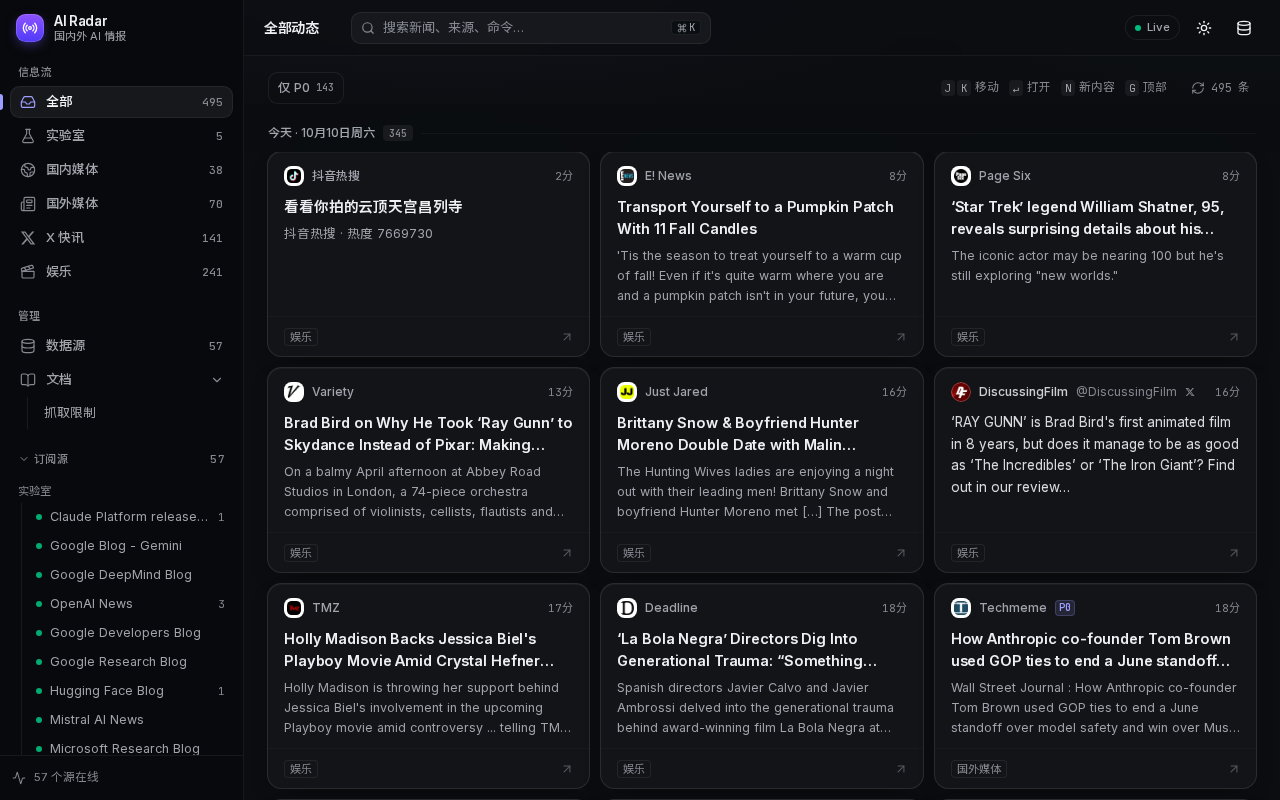
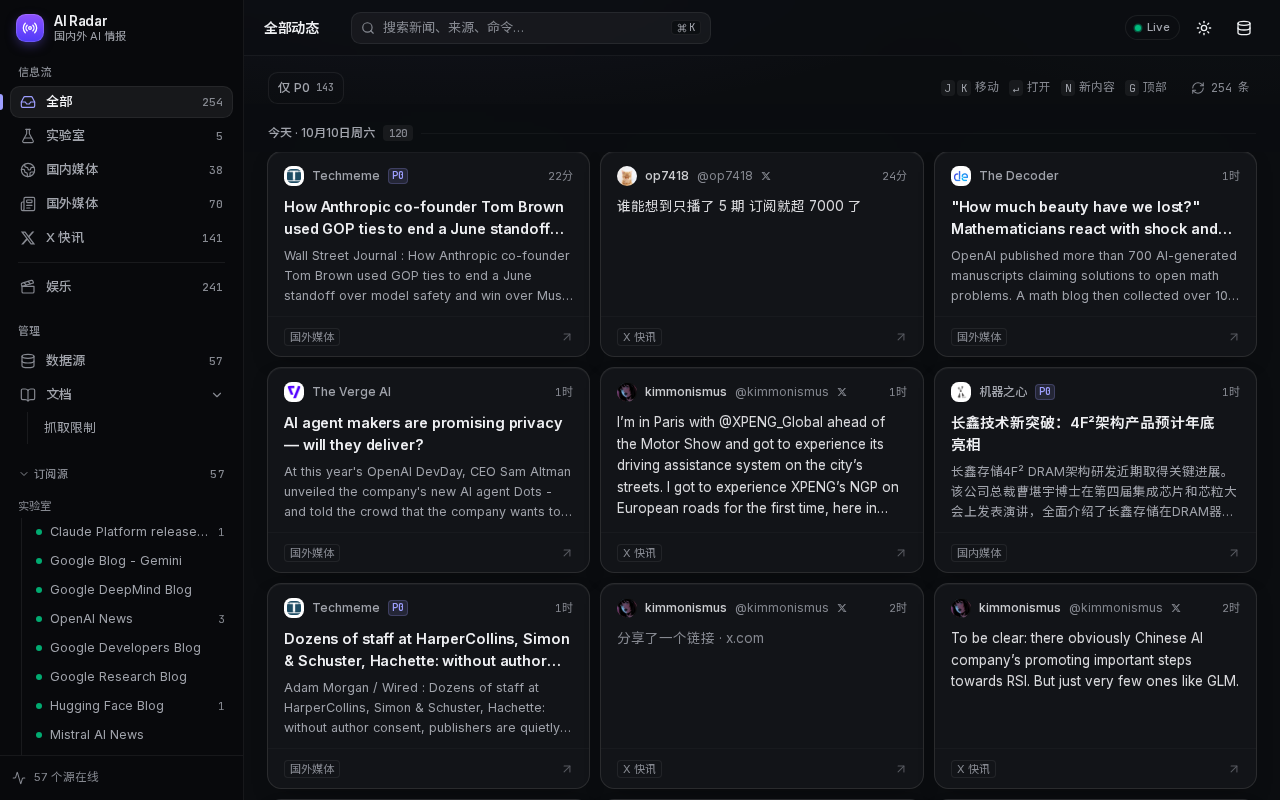
feat: keep 娱乐 out of 全部

diff --git a/src/components/app-shell.tsx b/src/components/app-shell.tsx
@@ -21,7 +21,7 @@ import { DOCS, docHref } from "@/lib/docs-registry";
 import { type Filters, countOf, parseFilters, toQuery } from "./filters";
 import { cn } from "@/lib/utils";
 import type { ItemOut } from "@/lib/types";
-import { SECTIONS, type SectionKey, type SourceRow, ago, api, bj, bjFull, dekText, handleOf, secZh, sectionOf, srcName, xText, REG, CAT } from "./common";
+import { SECTIONS, inAll, type SectionKey, type SourceRow, ago, api, bj, bjFull, dekText, handleOf, secZh, sectionOf, srcName, xText, REG, CAT } from "./common";
 import { SourceAvatar } from "./source-avatar";
 import { useFullItem } from "./item-preview";
 
@@ -116,7 +116,7 @@ function SidebarBody({ onNavigate }: { onNavigate?: () => void }) {
   const active = sources.filter((s) => s.enabled && s.supported);
   const feed = path === "/";
   const count = (section: Filters["section"]) => facet.length ? countOf(facet, { section, source: null, p0: f.p0 })
-    : active.filter((s) => !section || sectionOf({ ...s, is_x: s.type.startsWith("x") }) === section).reduce((a, s) => a + s.item_count, 0);
+    : active.filter((s) => { const k = sectionOf({ ...s, is_x: s.type.startsWith("x") }); return section ? k === section : inAll(k); }).reduce((a, s) => a + s.item_count, 0);
   const go = (p: Partial<Filters>) => { navigate({ section: "", source: null, ...p }); onNavigate?.(); };
   const on = (section: Filters["section"]) => feed && f.source == null && f.section === section;
   const errs = active.filter((s) => s.last_error).length;
@@ -135,7 +135,10 @@ function SidebarBody({ onNavigate }: { onNavigate?: () => void }) {
         <div className="space-y-0.5 px-2.5 pb-3">
           <SectionLabel first>信息流</SectionLabel>
           <NavItem active={on("")} icon={Inbox} label="全部" count={count("")} onClick={() => go({})} />
-          {SECTIONS.map((s) => <NavItem key={s.key} active={on(s.key)} icon={SEC_ICON[s.key]} label={s.zh} count={count(s.key)} onClick={() => go({ section: s.key })} />)}
+          {SECTIONS.filter((s) => inAll(s.key)).map((s) => <NavItem key={s.key} active={on(s.key)} icon={SEC_ICON[s.key]} label={s.zh} count={count(s.key)} onClick={() => go({ section: s.key })} />)}
+          {/* sections outside 全部 (e.g. 娱乐) sit below a divider */}
+          <div className="mx-2 my-2 h-px bg-border" role="separator" title="不计入「全部」" />
+          {SECTIONS.filter((s) => !inAll(s.key)).map((s) => <NavItem key={s.key} active={on(s.key)} icon={SEC_ICON[s.key]} label={s.zh} count={count(s.key)} onClick={() => go({ section: s.key })} />)}
           <SectionLabel>管理</SectionLabel>
           <NavItem active={path === "/sources"} icon={Database} label="数据源" count={active.length} onClick={() => { router.push("/sources"); onNavigate?.(); }} />
           <DocsGroup path={path} onGo={(h) => { router.push(h); onNavigate?.(); }} />
@@ -183,7 +186,11 @@ function Palette({ open, onOpenChange }: { open: boolean; onOpenChange: (b: bool
   const [hits, setHits] = useState<ItemOut[]>([]);
   useEffect(() => {
     if (!open) return;
-    const t = setTimeout(async () => setHits(await api<ItemOut[]>(`/api/items?limit=12${q.trim() ? `&q=${encodeURIComponent(q.trim())}` : ""}`)), 150);
+    const t = setTimeout(async () => {
+      // "最新" (no query) mirrors 全部 and skips 娱乐; a real search may still hit 娱乐 items (labelled)
+      const r = await api<ItemOut[]>(`/api/items?limit=${q.trim() ? 12 : 40}${q.trim() ? `&q=${encodeURIComponent(q.trim())}` : ""}`);
+      setHits(q.trim() ? r : r.filter((it) => inAll(sectionOf(it))).slice(0, 12));
+    }, 150);
     return () => clearTimeout(t);
   }, [q, open]);
   const run = (fn: () => void) => { onOpenChange(false); setQ(""); fn(); };
@@ -200,6 +207,7 @@ function Palette({ open, onOpenChange }: { open: boolean; onOpenChange: (b: bool
                 <CommandItem key={it.id} value={`item-${it.id}`} onSelect={() => run(() => setOpen(it))}>
                   <SourceAvatar name={it.source} username={it.is_x ? handleOf(it) : null} homepage={it.homepage} url={it.url} x={!!it.is_x} className="size-5" />
                   <span className="truncate">{it.is_x ? xText(it) : it.title}</span>
+                  {!inAll(sectionOf(it)) && <span className="shrink-0 rounded-[4px] px-1.5 text-[11px] leading-[18px] text-muted-foreground shadow-[inset_0_0_0_1px_var(--border)]">{secZh(sectionOf(it))}</span>}
                   <CommandShortcut className="whitespace-nowrap tracking-normal">{ago(it.published, true)}</CommandShortcut>
                 </CommandItem>
               ))}

diff --git a/src/components/filters.ts b/src/components/filters.ts
@@ -2,7 +2,7 @@
 //   view = "" (全部) | an exclusive section (lab/cn/dev/media/x — every item is in exactly one, all X posts are "x") | a single source.
 // Plus an optional P0-only toggle. State lives in the URL: /?section=cn | /?section=x | /?source=12 [&p0=1].
 import type { ItemOut } from "@/lib/types";
-import { type SectionKey, SECTIONS, sectionOf } from "./common";
+import { type SectionKey, SECTIONS, inAll, sectionOf } from "./common";
 
 export type View = "" | SectionKey;
 export type Filters = { section: View; source: number | null; p0: boolean };
@@ -10,7 +10,7 @@ export const EMPTY: Filters = { section: "", source: null, p0: false };
 
 export function passes(it: ItemOut, f: Filters) {
   if (f.source != null) { if (it.source_id !== f.source) return false; }
-  else if (f.section && sectionOf(it) !== f.section) return false;
+  else if (f.section ? sectionOf(it) !== f.section : !inAll(sectionOf(it))) return false; // 全部 skips includeInAll:false sections
   if (f.p0 && it.priority !== "P0") return false;
   return true;
 }

diff --git a/src/components/common.ts b/src/components/common.ts
@@ -8,8 +8,10 @@ export const SECTIONS = [
   { key: "cn", zh: "国内媒体", en: "China media" },
   { key: "media", zh: "国外媒体", en: "Global media" },
   { key: "x", zh: "X 快讯", en: "X" },
-  { key: "ent", zh: "娱乐", en: "Entertainment" },
+  { key: "ent", zh: "娱乐", en: "Entertainment", includeInAll: false },
 ] as const;
+// includeInAll: false -> the section only shows in its own view; 全部 (feed, counts, P0 count, "N 条新内容", day headers) excludes it.
+export const inAll = (k: SectionKey) => (SECTIONS.find((s) => s.key === k) as { includeInAll?: boolean } | undefined)?.includeInAll !== false;
 export type SectionKey = (typeof SECTIONS)[number]["key"];
 
 const GRP: Record<string, SectionKey> = {

diff --git a/AGENTS.md b/AGENTS.md
@@ -73,7 +73,7 @@ Restart prod after a build: stop the old `next start` process first (only one in
 2. Append `{ slug, title, desc, updated }` to `DOCS` in `src/lib/docs-registry.ts` — the sidebar group (collapsible, open state in localStorage `sidebar.docs.open`), the /docs index and ⌘K pick it up automatically.
 
 ## Feed filter model
-- `src/components/filters.ts`: ONE view at a time, chosen in the sidebar — 全部 / an exclusive section / a single source — plus an optional 仅 P0 toggle. **Sections are exclusive, assigned per SOURCE** (`sectionOf` in `common.ts`): seed `group` wins → 实验室 lab / 国内媒体 cn / 国外媒体 media / 娱乐 ent (group `娱乐`, incl. entertainment X accounts like @PopBase); otherwise any X source → `x`（X 快讯）; otherwise region/category fallback. Section counts sum to 全部. There is no 开发 section any more.
+- `src/components/filters.ts`: ONE view at a time, chosen in the sidebar — 全部 / an exclusive section / a single source — plus an optional 仅 P0 toggle. **Sections are exclusive, assigned per SOURCE** (`sectionOf` in `common.ts`): seed `group` wins → 实验室 lab / 国内媒体 cn / 国外媒体 media / 娱乐 ent (group `娱乐`, incl. entertainment X accounts like @PopBase); otherwise any X source → `x`（X 快讯）; otherwise region/category fallback. A section may set `includeInAll: false` in `SECTIONS` (currently 娱乐): it is shown only in its own view and is excluded from 全部 everywhere (`passes`, sidebar 全部 count, P0 count, 'N 条新内容', day headers, ⌘K 最新 list; ⌘K text search can still hit it, labelled). So the 全部 count = sum of the in-全部 sections; such sections sit below a divider in the sidebar. There is no 开发 section any more.
 - State lives in the URL (`/?section=cn`, `/?section=x`, `/?source=12`, `&p0=1`); use `setF` / `navigate` from `useApp()`.
 - Feed loads the whole 48 h window once (`/api/items?limit=1000`) and filters client-side; sidebar counts come from it.
 - Layout: day headers + a grid of equal-size shadcn `Card`s (fixed height, clamped title/summary): 1 col → 2 at md → 3 at xl → 4 at ≥1600px. j/k/←/→ move in reading order; Enter opens the drawer.

diff --git a/README.md b/README.md
@@ -16,7 +16,7 @@
 - **优先级轮询**：P0 X 2 分钟 / 网站 5 分钟，P1 5/10 分钟，P2 30 分钟；条件请求（ETag / If-Modified-Since）节省带宽
 - **实时推送**：SSE，新内容出现“N 条新内容”提示
 - **去重与合并**：按规范化 URL / 推文 ID 去重；推文链接到已有文章时合并为“也在 X”
-- **互斥分区**：实验室 / 国内媒体 / 国外媒体 / X 快讯 / 娱乐，每个来源只属于一个分区（娱乐类 X 账号归「娱乐」）
+- **互斥分区**：实验室 / 国内媒体 / 国外媒体 / X 快讯 / 娱乐，每个来源只属于一个分区（娱乐类 X 账号归「娱乐」）；「娱乐」不计入「全部」，只在自己的分区显示
 - **悬停预览**：鼠标停留在卡片上显示 Hover Card（全文、时间、原文链接），触屏设备自动关闭
 - **界面**：shadcn/ui 卡片网格、深浅色主题、⌘K 命令面板、J/K 键盘导航、已读变暗、移动端适配
 - **数据源管理**：启用/停用、调整间隔、立即抓取、按 URL / @用户名 / X 列表添加并预览
